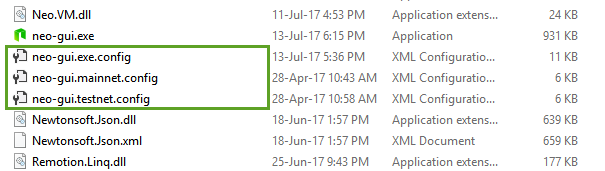
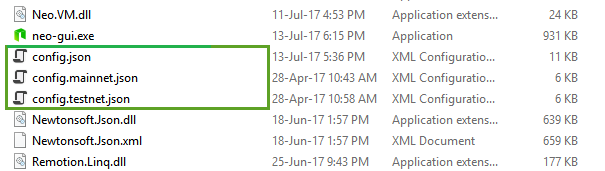
ES-minor-review-1.0.3

Changed region(s): [[0.0, 0.2632, 0.357, 0.3801], [0.0, 0.4094, 0.2678, 0.4971], [0.0, 0.5263, 0.2678, 0.614]]

diff --git a/es-es/node/testnet.md b/es-es/node/testnet.md
@@ -28,12 +28,56 @@ Source code | [GitHub](https://github.com/neo-project/neo-gui/) | [GitHub](https
 
 1. Si usas el cliente GUI `NEO-gui` dentro de la carpeta donde se encuentra el ejecutable copia el contenido de `protocol.testnet.json` en `protocol.json` tal y como se muestra en la imagen.
  
-  <img style="vertical-align: middle" src="/assets/testnet_1.png">
+s  <img style="vertical-align: middle" src="/assets/testnet_1.png">
 
-2. Y dentro de la carpeta donde se encuentra el ejecutable copia el contenido de `neo-gui.exe.testnet.config` en `neo-gui.exe.config`.
+2. Y dentro de la carpeta donde se encuentra el ejecutable copia el contenido de `config.testnet.json` en `config.json`.
 
   <img style="vertical-align: middle" src="/assets/testnet_2.png">
 
 
 > [!NOTE]
 > Si usas el cliente CLI (NEO-cli) se debe copiar el contenido del fichero **config.testnet.json** en **config.json**.
+
+# Solicitar NEO y NeoGas en la red de pruebas (Testnet)
+
+1. Sigue los pasos anteriores para configurar el cliente (ya sea el cliente NEO-cli o NEO-gui) para conectarse a la red de pruebas. Esto es, copiando el contenido de `procotol.testnet.json` en  `protocol.json` y el contenido del fichero `config.testnet.json` en `config.json`
+
+2. Arranca el cliente (en nuestro ejemplo el cliente NEO-gui) y asegúrate de que esté totalmente sincronizado.
+ <img style="vertical-align: middle" src="/assets/gui_1.png">
+ 
+3. Crea un monedero. Click en `Wallet`, click en `New Wallet Database`. Una vez pulsado aparecerá la ventana `New Wallet` y click en `Browser`.
+
+4. Introduce la conseña en `Password` y repitela en `Re-Password` y click en `Confirm`. Una vez pulsado `Confirm` el monedero creará por defecto una cuenta estandard.
+
+5. Una vez creado el monedero nos creará una cuenta estandard. Click con el botón-derecho del raton sobre la cuenta estándar y click en `View Private Key` y copiamos la clave pública, tal y como se muestra en la imagen:
+
+  <img style="vertical-align: middle" src="/assets/testnet_3.png">
+  
+6. Dirígete a la siguiente dirección para solicitar los NEO/NeoGas, [NEO Developer](https://neo.org/testNet/create)
+
+7. Rellena el formulario. El en apartado `Reason for Application` explica con detalles el proyecto que quieres realizar, así como la página web y el documento técnico, además de los NEO y NeoGas que necesitas para el proyecto.
+
+8. En el apartado `Neo Public Key` introduce la clave pública.
+
+ <img style="vertical-align: middle" src="/assets/testnet_4.png">
+ 
+9. Una vez completado, click en `Submit Application`
+
+10. Al cabo de unos días, si la aplicación ha sido aprobada por el equipo de NEO recibirás un correo electrónico con la cuenta contrato asignada y una clave pública. Esa clave pública la usaremos para crear una cuenta contrato a partir de nuestra cuenta estándar. 
+
+Para eso:
+
+ * Click con el botón derecho sobre la cuenta estándard, click en `Create Contract Add` y click en `Multisignature`.
+ 
+ <img style="vertical-align: middle" src="/assets/testnet_5.png">
+ 
+ * En el apartado `Pub.Key list` añadirmos las dos claves publicas, la que nos ha enviado NEO y la nuestra. En el `Min.Sig.Num` indicamos `1` y click en `Confirm`
+ 
+ <img style="vertical-align: middle" src="/assets/testnet_6.png">
+ 
+ * Una vez confirmada y **al cabo de 5 minutos** veremos el NEO y NeoGas que hemos solicitado.
+ 
+  <img style="vertical-align: middle" src="/assets/testnet_7.png">
+  
+  11. Ahora puedes hacer una transferencia de los NEO y NeoGas de la cuenta contrato a la cuenta estándar. 
+

diff --git a/es-es/sc/fw/dotnet/Neo/Runtime.md b/es-es/sc/fw/dotnet/Neo/Runtime.md
@@ -1,0 +1,32 @@
+# Método Runtime
+
+Proporcionar funciones a la hora de ejecutar contratos inteligentes.
+
+Namespace: [Neo.SmartContract.Framework.Services.Neo](../Neo.md)
+
+Assembly: Neo.SmartContract.Framework
+
+## Sintaxis
+
+```c#
+public static class Runtime
+```
+
+## Atributos
+
+|                                          | Nombre                            | Descripción                        |
+| ---------------------------------------- | ----------------------------- | -------------------------- |
+| ![](https://i-msdn.sec.s-msft.com/dynimg/IC74937.jpeg) | [Trigger](Runtime/Trigger.md) | Obtiene el tipo de activación del contrato inteligente  |
+
+## Método
+
+|                                          | Nombre                                        | Descripción                            |
+| ---------------------------------------- | ---------------------------------------- | ----------------------------- |
+| ![](https://i-msdn.sec.s-msft.com/dynimg/IC91302.jpeg) | [CheckWitness(byte[])](Runtime/CheckWitness.md) | Verifica que la transacción / bloque que invocó el contrato inteligente tiene un scriphash valido. |
+| ![](https://i-msdn.sec.s-msft.com/dynimg/IC91302.jpeg) | [Log(string)](Runtime/Log.md)            | Crea un registro/log en el contrato inteligente ejecutado.       |
+| ![](https://i-msdn.sec.s-msft.com/dynimg/IC91302.jpeg) | [Notify(params object[])](Runtime/Notify.md) | Envia una notificación en el contrato inteligente ejecutado.      |
+
+
+# Método de contrucción
+
+La clase Runtime es estática y no necesita un contructor.

diff --git a/es-es/sc/fw/dotnet/Neo.md b/es-es/sc/fw/dotnet/Neo.md
@@ -25,9 +25,11 @@ Nota: Las etiquetas `nueva` y `obsoleta` indican los cambios realizados en la ve
 | ![](https://i-msdn.sec.s-msft.com/dynimg/IC29808.jpeg) | [TransactionAttribute](Neo/TransactionAttribute.md) | La estructura de datos usada para representar una transacción.         |
 | ![](https://i-msdn.sec.s-msft.com/dynimg/IC29808.jpeg) | [TransactionInput](Neo/TransactionInput.md) | La estructura de datos usada para representar una transacción entrante.        |
 | ![](https://i-msdn.sec.s-msft.com/dynimg/IC29808.jpeg) | [TransactionOutput](Neo/TransactionOutput.md) | La estructura de datos usada para representar una transacción saliente. |
+| ![](https://i-msdn.sec.s-msft.com/dynimg/IC29808.jpeg) | [Validator](Neo/Validator.md)            | `new` Métodos para los nodos consensos.   |
 
-## enumeración
+## Enumeración
 
 |  | Enumeración | Descripción |
-| ---------------------------------------- | ---------------------------------------- | ----------------------- |
+| ---------------------------------------- | -------------------------------------- | ------------------------- |
+| ![](https://i-msdn.sec.s-msft.com/dynimg/IC134134.jpeg) | [TriggerType](Neo/TriggerType.md)          | `new` Enumeración de condiciones (Triggers) en contrato inteligente   |
 | ![](https://i-msdn.sec.s-msft.com/dynimg/IC134134.jpeg) | [StorageContex](Neo/StorageContex2.md) | `Obsoleta` se usa para resprensetar el area de almacenamiento privada.

diff --git a/es-es/sc/fw/dotnet/Neo/TriggerType.md b/es-es/sc/fw/dotnet/Neo/TriggerType.md
@@ -1,0 +1,24 @@
+# Enumeración TriggerType
+
+Se utiliza para indicar una enumeración de condiciones de activación (Triggers) de contrato inteligentes[Runtime.Trigger](Runtime/Trigger.md) puede obtener si el contrato inteligente actual se activa 
+mediante **(Verification）** o un contrato de aplicación **（Application）**
+
+| Trigger      | Verification | Application          |
+| ---------------- | ----------------- | -------------------------------- |
+| Clase base heredada  | VerificationCode  | FunctionCode                 |
+| Modo de activación   | La transferencia desde una dirección del contrato activará automáticamente el contrato  | 1. （Invocation Transaction） Al activar un contrato. 2. La transferencia desde una dirección del contrato activará automáticamente el contrato. |
+| Se puede contabilizar en la cadena de bloques mediante otras convocatorias | No    | Sí     | 
+
+Namespace: [Neo.SmartContract.Framework.Services.Neo](../Neo.md)
+
+Assembly: Neo.SmartContract.Framework
+
+## Ejemplo
+
+```c#
+public enum TriggerType : byte
+{
+    Verification = 0x00,
+    Application = 0x10
+}
+```

diff --git a/es-es/sc/fw/dotnet/Neo/Runtime/CheckWitness.md b/es-es/sc/fw/dotnet/Neo/Runtime/CheckWitness.md
@@ -1,0 +1,39 @@
+# Método Runtime.CheckWitness(byte[])
+
+Verifica que la transacciones / bloque del contrato llamado ha validado el scripthash necesario.
+
+
+Namespace: [Neo.SmartContract.Framework.Services.Neo](../../Neo.md)
+
+Assembly: Neo.SmartContract.Framework
+
+## Sintaxis
+
+```c#
+public static extern bool CheckWitness(byte[] hashOrPubkey)
+```
+
+Parámetros:
+
+hashOrPubkey: scripthash como un array de byte de longitud 20 o una clave pública como array de byte de longitud 33.
+
+Return value: Si la verificación se ha relizado, booleano.
+
+## Ejemplo
+
+```c#
+public class Contract1 : FunctionCode
+{
+    public static void Main()
+    {
+        byte[] pubKey = { 2, 123, 48, 51, 62, 13, 14, 101, 82, 174, 109, 29, 169, 249, 64, 159, 85, 30, 53, 238, 151, 25, 48, 94, 148, 93, 196, 220, 186, 153, 132, 86, 202 };
+        bool result = Runtime.CheckWitness(pubKey);
+        //byte[] scriptHash = { 36, 23, 241, 177, 228, 54, 109, 223, 27, 237, 139, 54, 207, 38, 132, 101, 172, 3, 10, 73 };
+        //bool result = Runtime.CheckWitness(scriptHash);
+    }
+}
+```
+
+
+
+[Volver arriba](../Runtime.md)

diff --git a/es-es/sc/fw/dotnet/Neo/Validator/Register.md b/es-es/sc/fw/dotnet/Neo/Validator/Register.md
@@ -1,0 +1,38 @@
+# Método Validator.Register(byte[])
+
+Se registra como nodo consenso/bookpeeper. Esto es solo para el registro, requiere votos para ser seleccionado.
+
+[!NOTE] Este método reemplaza en la versión 2.0 el método RegisterTransaction.
+
+Namespace: [Neo.SmartContract.Framework.Services.Neo](../../neo.md)
+
+Assembly: Neo.SmartContract.Framework
+
+## Syntax
+
+```c#
+public static extern Neo.SmartContract.Framework.Services.Neo.Validator Register(byte[] pubkey)
+```
+
+Parámetros
+
+pubkey： clave públca como arra de bye de longitud de 33.
+
+Valor retorno:: [Validator](../Validator.md)
+
+## Ejemplo
+
+```c#
+public class Contract1 : FunctionCode
+{
+    public static void Main()
+    {
+        byte[] pubKey = new byte[] { 2, 123, 48, 51, 62, 13, 14, 101, 82, 174, 109, 29, 169, 249, 64, 159, 85, 30, 53, 238, 151, 25, 48, 94, 148, 93, 196, 220, 186, 153, 132, 86, 202 };
+        var result = Validator.Register(pubKey);
+    }
+}
+```
+
+
+
+[Volver arriba](../Validator.md)

diff --git a/es-es/sc/fw/dotnet/Neo/Runtime/Trigger.md b/es-es/sc/fw/dotnet/Neo/Runtime/Trigger.md
@@ -1,0 +1,37 @@
+# Método Runtime.Trigger
+
+Obtiene el tipo de activación del contrato inteligente (contrato o contrato de aplicación)
+
+Namespace: [Neo.SmartContract.Framework.Services.Neo](../../Neo.md)
+
+Assembly: Neo.SmartContract.Framework
+
+## Sintaxis
+
+```c#
+public static extern Neo.SmartContract.Framework.Services.Neo.TriggerType Trigger { get; }
+```
+
+Valor de los atributos：[TriggerType](../TriggerType.md)。
+
+## Ejemplo
+
+```c#
+public static bool Main()
+{
+    if (Runtime.Trigger == TriggerType.Verification)
+    {
+        // do something;
+    }
+    else if (Runtime.Trigger == TriggerType.Application)
+    {
+        // do something;
+    }
+}
+```
+
+Ejemplo detallado: [ICO_Template](https://github.com/neo-project/examples-csharp/blob/master/ICO_Template/ICO_Template.cs)。
+
+
+
+[Volver arriba](../Runtime.md)

diff --git a/es-es/sc/fw/dotnet/Neo/Runtime/Notify.md b/es-es/sc/fw/dotnet/Neo/Runtime/Notify.md
@@ -1,0 +1,33 @@
+# Método Runtime.Notify (params object[])
+
+Al igual que Runtime.Log, notifica al cliente en la ejecución del contrato inteligente. Este método puede desencadenar un evento en el cliente pero requerirá que el cliente sea compatible.
+
+Namespace: [Neo.SmartContract.Framework.Services.Neo](../../Neo.md)
+
+Assembly: Neo.SmartContract.Framework
+
+## Sintaxis
+
+```c#
+public static extern void Notify(params object[] state)
+```
+
+Parámetros:
+
+state: El mensaje de notificación, puede ser de cualquier longitud o tipo.
+
+## Ejemplo
+
+```c#
+public class Contract1 : FunctionCode
+{
+    public static void Main()
+    {
+        Runtime.Notify("Hello", "World", Blockchain.GetHeight());
+    }
+}
+```
+
+
+
+[Volver arriba](../Runtime.md)

diff --git a/es-es/sc/fw/dotnet/Neo/Validator.md b/es-es/sc/fw/dotnet/Neo/Validator.md
@@ -1,0 +1,24 @@
+# Clase Validator
+
+Proporciona un conjunto de métodos para los nodos consensos.
+
+Namespace: [Neo.SmartContract.Framework.Services.Neo](../neo.md)
+
+Assembly: Neo.SmartContract.Framework
+
+## Sintaxis
+
+```c#
+public class Validator
+```
+
+## Metodos
+
+|                                          | Nombre                                       | Descripción         |
+| ---------------------------------------- | ---------------------------------------- | ----------- |
+| ![](https://i-msdn.sec.s-msft.com/dynimg/IC91302.jpeg) | [Validator.Register(byte[])](Validator/Register.md) | Registrar como nodo consenso/bookkeeper |
+
+
+# Constructor
+
+La clase Validator es una clase estática y no requiere un contructor.

diff --git a/es-es/sc/fw/dotnet/Neo/Runtime/Log.md b/es-es/sc/fw/dotnet/Neo/Runtime/Log.md
@@ -1,0 +1,36 @@
+# Método Runtime.Log(string)
+
+Envia un mensaje de log al cliente que ejecuta el contrato inteligente. Este método puede desencadenar un evento en el cliente pero requerirá que el cliente sea compatible.
+
+Namespace: [Neo.SmartContract.Framework.Services.Neo](../../Neo.md)
+
+Assembly: Neo.SmartContract.Framework
+
+## Sintaxis
+
+```c#
+public static extern void Log(string message)
+```
+
+Parámetros:
+
+message: Log, como string
+
+## Ejemplo
+
+```c#
+public class Contract1 : FunctionCode
+{
+    public static void Main(bool debug)
+    {
+        if(debug)
+        {
+            Runtime.Log("Execution successful");
+        }
+    }
+}
+```
+
+
+
+[Volver arriba](../Runtime.md)

diff --git a/es-es/node/private-chain.md b/es-es/node/private-chain.md
@@ -81,7 +81,7 @@ El valor `SystemList` es la tarifa del sistema. La tarifa se paga en NeoGas. Pue
 > [!IMPORTANT] Una vez modificado el fichero **protocol.json** sustitúyelo en los 4 nodos, en el directorio donde se encuentra 
 > el cliente NEO-cli
 
-> [TIP]
+> [!TIP]
 > Antes de ejecutar **por primera vez** la blockchain privada asegúrate que eliminar, si existe, la carpeta "Chain" y el fichero "peers.dat"
 
 Una vez sustituido el fichero de configuración en los cuatro nodos, introduce los siguiente comandos para ejecutar el cliente CLI, abrir el monedero y ejecutar el conseso. Revisa la línea de comandos aquí [CLI Command Reference](cli.md).

diff --git a/es-es/sc/fw/dotnet.md b/es-es/sc/fw/dotnet.md
@@ -8,3 +8,4 @@ Proporciona una encapsulación de la API de contratos inteligentes para que los 
 | --------- | ----------- |
 | [Neo](dotnet/Neo.md) | El namespace Neo es la API proporcionada por la blockchain de NEO, esta facilita el acceso a los datos de la blockchain y la manipulación del almacenamiento persistente. |
 | [System](dotnet/System.md) | El namespace System es la API proporcionada por el motor de ejecución de contratos inteligentes (Neo-VM), facilita el acceso al entorno de ejecución que accede a los contratos inteligentes. |
+
